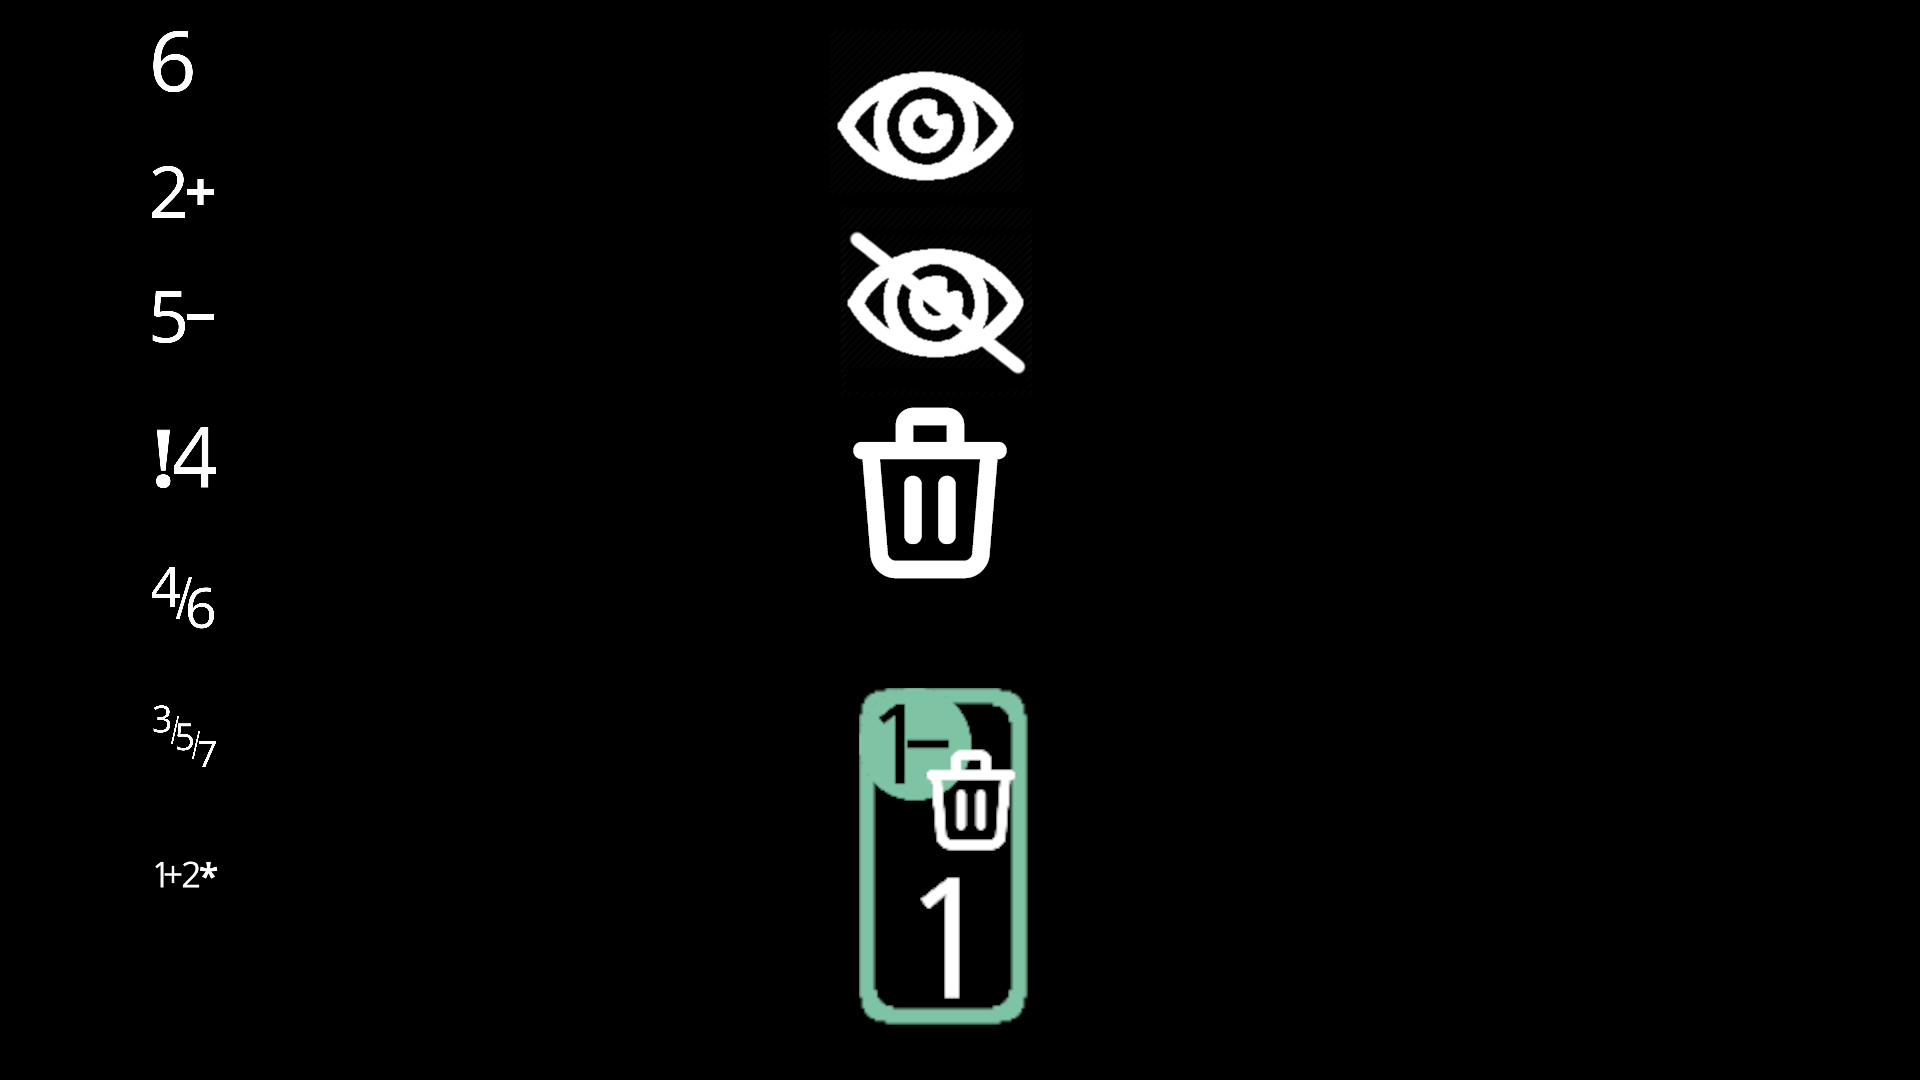
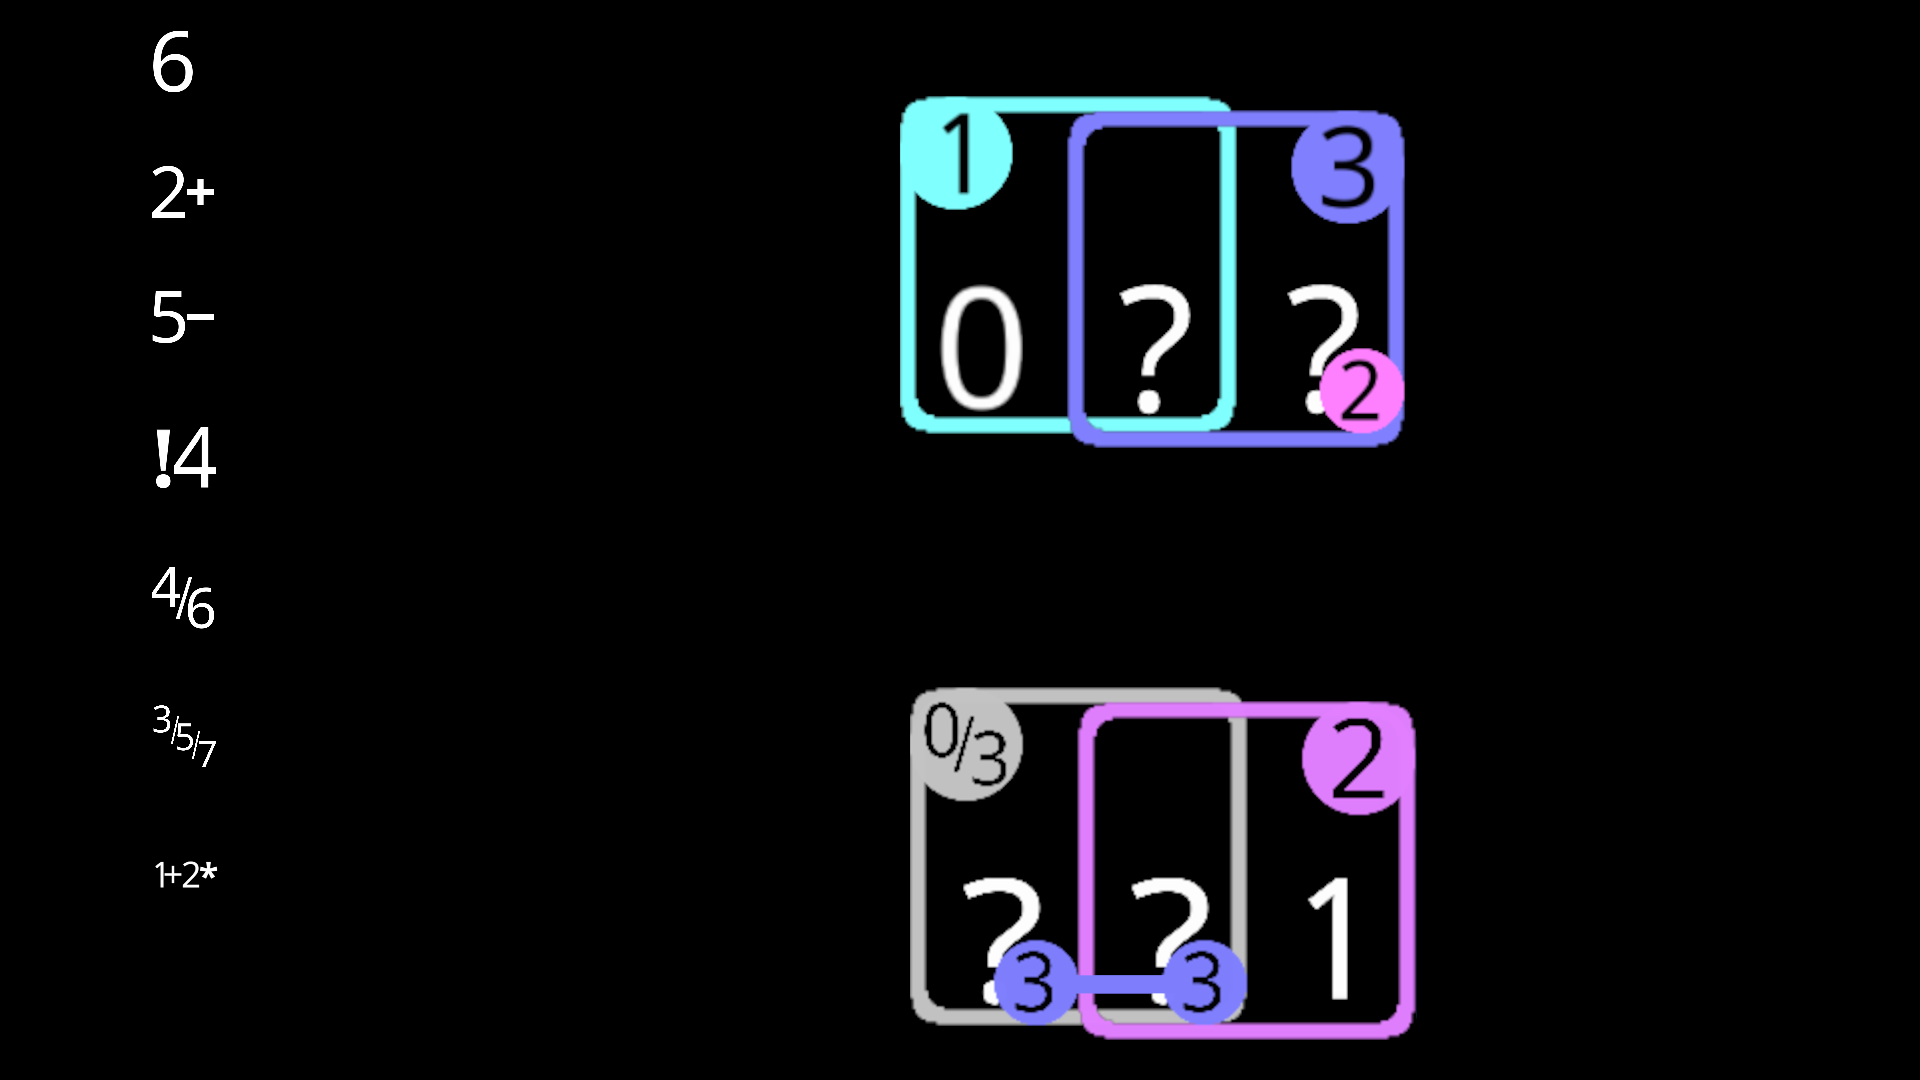
New tutorial structure

Changed region(s): [[0.4375, 0.0611, 0.75, 0.55], [0.4375, 0.6111, 0.75, 0.9778]]

diff --git a/GameState.cpp b/GameState.cpp
@@ -262,6 +262,7 @@ GameState::GameState(std::string& load_data, bool json)
     tutorial_texture[3] = loadTexture("tutorial/tut3.png");
     tutorial_texture[4] = loadTexture("tutorial/tut4.png");
     tutorial_texture[5] = loadTexture("tutorial/tut5.png");
+    tutorial_texture[6] = loadTexture("tutorial/tut6.png");
 
     {
         SDL_Surface* icon_surface = IMG_Load("icon.png");
@@ -3908,7 +3909,7 @@ void GameState::render(bool saving)
         SDL_RenderCopy(sdl_renderer, sdl_texture, &src_rect, &dst_rect);
         add_tooltip(dst_rect, "Game Mode");
     }
-    if (clipboard_has_item != CLIPBOARD_HAS_NONE)
+    if (clipboard_has_item != CLIPBOARD_HAS_NONE && max_stars > 30)
     {
         SDL_Rect src_rect = {2048, 1536, 192, 192};
         SDL_Rect dst_rect = {left_panel_offset.x + 2 * button_size, left_panel_offset.y + button_size * 3, button_size, button_size};
@@ -3954,139 +3955,142 @@ void GameState::render(bool saving)
         }
     }
 
-    if (max_stars < 36)
-        SDL_SetTextureAlphaMod(sdl_texture, 10 * std::max(max_stars - 10, 0));
-
-    for (int i = 0; i < 5; i++)
+    if (max_stars > 10)
     {
-        const static char* grid_names[] = {"Hexagon", "Square", "Triangle", "Infinite", "Server"};
-        if (render_lock(PROG_LOCK_HEX + i, XYPos(left_panel_offset.x + i * button_size, left_panel_offset.y + int(button_size * 5.5)), XYPos(button_size, button_size)))
-        {
-            if (auto_progress_all && (current_level_group_index == i))
-            {
-                SDL_Rect src_rect = {1344, 1920, 128, 128};
-                SDL_Rect dst_rect = {left_panel_offset.x + i * button_size, left_panel_offset.y + int(button_size * 5.5), button_size, button_size};
-                SDL_Point rot_center = {button_size / 2, button_size / 2};
-                double angle = frame * 0.05;
-                SDL_RenderCopyEx(sdl_renderer, sdl_texture, &src_rect, &dst_rect, angle, &rot_center, SDL_FLIP_NONE);
-            }
-            SDL_Rect src_rect = {1472, 1344 + i * 192, 192, 192};
-            SDL_Rect dst_rect = {left_panel_offset.x + i * button_size, left_panel_offset.y + int(button_size * 5.5), button_size, button_size};
-            if (i == 4)
-                src_rect = {1664, 1536, 192, 192};
-            SDL_RenderCopy(sdl_renderer, sdl_texture, &src_rect, &dst_rect);
-            add_tooltip(dst_rect, grid_names[i]);
-        }
         if (max_stars < 36)
             SDL_SetTextureAlphaMod(sdl_texture, 10 * std::max(max_stars - 10, 0));
+        for (int i = 0; i < 5; i++)
         {
-            SDL_Rect src_rect = {512, (current_level_group_index == i) ? 1152 : 1344, 192, 192};
-            SDL_Rect dst_rect = {left_panel_offset.x + i * button_size, right_panel_offset.y + int(button_size * 5.5), button_size, button_size};
-            SDL_RenderCopy(sdl_renderer, sdl_texture, &src_rect, &dst_rect);
-        }
-    }
-    if (server_level_anim < PROG_ANIM_MAX)
-    {
-        star_burst_animations.push_back(AnimationStarBurst(XYPos(left_panel_offset.x + 4 * button_size, right_panel_offset.y + button_size * 5), XYPos(button_size,button_size), server_level_anim, false));
-        server_level_anim += frame_step;
-    }
-
-
-    XYPos p = XYPos(0,0);
-    for (int i = 0; i < level_progress[game_mode][current_level_group_index].size(); i++)
-    {
-        p.x = i % 5;
-        p.y = i / 5;
-
-        XYPos pos = left_panel_offset + XYPos(button_size * (i % 5), button_size * (i / 5 + 6.5));
-        if (i == current_level_set_index)
-        {
-            render_box(pos, XYPos(button_size, button_size), button_size/4, 9);
-            if (auto_progress)
+            const static char* grid_names[] = {"Hexagon", "Square", "Triangle", "Infinite", "Weekly Levels"};
+            if (render_lock(PROG_LOCK_HEX + i, XYPos(left_panel_offset.x + i * button_size, left_panel_offset.y + int(button_size * 5.5)), XYPos(button_size, button_size)))
             {
-                SDL_Rect src_rect = {1344, 1920, 128, 128};
+                if (auto_progress_all && (current_level_group_index == i))
+                {
+                    SDL_Rect src_rect = {1344, 1920, 128, 128};
+                    SDL_Rect dst_rect = {left_panel_offset.x + i * button_size, left_panel_offset.y + int(button_size * 5.5), button_size, button_size};
+                    SDL_Point rot_center = {button_size / 2, button_size / 2};
+                    double angle = frame * 0.05;
+                    SDL_RenderCopyEx(sdl_renderer, sdl_texture, &src_rect, &dst_rect, angle, &rot_center, SDL_FLIP_NONE);
+                }
+                SDL_Rect src_rect = {1472, 1344 + i * 192, 192, 192};
+                SDL_Rect dst_rect = {left_panel_offset.x + i * button_size, left_panel_offset.y + int(button_size * 5.5), button_size, button_size};
+                if (i == 4)
+                    src_rect = {1664, 1536, 192, 192};
+                SDL_RenderCopy(sdl_renderer, sdl_texture, &src_rect, &dst_rect);
+                if (max_stars > 26)
+                    add_tooltip(dst_rect, grid_names[i]);
+            }
+            if (max_stars < 36)
+                SDL_SetTextureAlphaMod(sdl_texture, 10 * std::max(max_stars - 10, 0));
+            {
+                SDL_Rect src_rect = {512, (current_level_group_index == i) ? 1152 : 1344, 192, 192};
+                SDL_Rect dst_rect = {left_panel_offset.x + i * button_size, right_panel_offset.y + int(button_size * 5.5), button_size, button_size};
+                SDL_RenderCopy(sdl_renderer, sdl_texture, &src_rect, &dst_rect);
+            }
+        }
+        if (server_level_anim < PROG_ANIM_MAX)
+        {
+            star_burst_animations.push_back(AnimationStarBurst(XYPos(left_panel_offset.x + 4 * button_size, right_panel_offset.y + int(button_size * 5.5)), XYPos(button_size,button_size), server_level_anim, false));
+            server_level_anim += frame_step;
+        }
+
+
+        XYPos p = XYPos(0,0);
+        for (int i = 0; i < level_progress[game_mode][current_level_group_index].size(); i++)
+        {
+            p.x = i % 5;
+            p.y = i / 5;
+
+            XYPos pos = left_panel_offset + XYPos(button_size * (i % 5), button_size * (i / 5 + 6.5));
+            if (i == current_level_set_index)
+            {
+                render_box(pos, XYPos(button_size, button_size), button_size/4, 9);
+                if (auto_progress)
+                {
+                    SDL_Rect src_rect = {1344, 1920, 128, 128};
+                    SDL_Rect dst_rect = {pos.x, pos.y, button_size, button_size};
+                    SDL_Point rot_center = {button_size / 2, button_size / 2};
+                    double angle = frame * 0.05;
+                    SDL_RenderCopyEx(sdl_renderer, sdl_texture, &src_rect, &dst_rect, angle, &rot_center, SDL_FLIP_NONE);
+                }
+            }
+            int cnt = (current_level_group_index == GLBAL_LEVEL_SETS) ?
+                            server_levels[i].size() :
+                            global_level_sets[current_level_group_index][i]->levels.size();
+
+            if (!cnt || (IS_DEMO && (i % 5 + i / 5) > 3))
+            {
+                SDL_Rect src_rect = {1088, 192, 192, 192};
                 SDL_Rect dst_rect = {pos.x, pos.y, button_size, button_size};
-                SDL_Point rot_center = {button_size / 2, button_size / 2};
-                double angle = frame * 0.05;
-                SDL_RenderCopyEx(sdl_renderer, sdl_texture, &src_rect, &dst_rect, angle, &rot_center, SDL_FLIP_NONE);
+                SDL_RenderCopy(sdl_renderer, sdl_texture, &src_rect, &dst_rect);
+                continue;
             }
-        }
-        int cnt = (current_level_group_index == GLBAL_LEVEL_SETS) ?
-                        server_levels[i].size() :
-                        global_level_sets[current_level_group_index][i]->levels.size();
 
-        if (!cnt || (IS_DEMO && (i % 5 + i / 5) > 3))
-        {
-            SDL_Rect src_rect = {1088, 192, 192, 192};
-            SDL_Rect dst_rect = {pos.x, pos.y, button_size, button_size};
-            SDL_RenderCopy(sdl_renderer, sdl_texture, &src_rect, &dst_rect);
-            continue;
-        }
-
-        int need = 100;
-        if (i >= 5)
-            need = std::min(need, int(level_progress[game_mode][current_level_group_index][i - 5].count_todo) - 100);
-        if (i % 5 >= 1)
-            need = std::min(need, int(level_progress[game_mode][current_level_group_index][i - 1].count_todo) - 100);
-        if (i && need > 0)
-        {
-            SDL_Rect src_rect = {1088, 192, 192, 192};
-            SDL_Rect dst_rect = {pos.x , pos.y, button_size, button_size};
-            SDL_RenderCopy(sdl_renderer, sdl_texture, &src_rect, &dst_rect);
-
-            SDL_SetTextureColorMod(sdl_texture, 0,0,0);
-            render_number(need, pos + XYPos(button_size * 45 / 192 , button_size * 77 / 192), XYPos(button_size * 102 / 192, button_size * 98 / 192));
-            SDL_SetTextureColorMod(sdl_texture, contrast, contrast, contrast);
-            continue;
-        }
-        else
-        {
-            if (level_progress[game_mode][current_level_group_index][i].unlock_anim_prog < PROG_ANIM_MAX)
+            int need = 100;
+            if (i >= 5)
+                need = std::min(need, int(level_progress[game_mode][current_level_group_index][i - 5].count_todo) - 100);
+            if (i % 5 >= 1)
+                need = std::min(need, int(level_progress[game_mode][current_level_group_index][i - 1].count_todo) - 100);
+            if (i && need > 0)
             {
-                star_burst_animations.push_back(AnimationStarBurst(pos, XYPos(button_size,button_size), level_progress[game_mode][current_level_group_index][i].unlock_anim_prog, true));
-                level_progress[game_mode][current_level_group_index][i].unlock_anim_prog += frame_step;
-            }
-            
-        }
+                SDL_Rect src_rect = {1088, 192, 192, 192};
+                SDL_Rect dst_rect = {pos.x , pos.y, button_size, button_size};
+                SDL_RenderCopy(sdl_renderer, sdl_texture, &src_rect, &dst_rect);
 
-        int c = level_progress[game_mode][current_level_group_index][i].count_todo;
-        if (c)
-        {
-            render_number(level_progress[game_mode][current_level_group_index][i].count_todo, pos + XYPos(button_size / 32, button_size / 4), XYPos(button_size * 15 / 16 , button_size / 2));
-            SDL_Rect dst_rect = {pos.x, pos.y, button_size, button_size};
-            add_clickable_highlight(dst_rect);
-        }
-        else
-        {
-            if (level_progress[game_mode][current_level_group_index][i].star_anim_prog < PROG_ANIM_MAX)
-            {
-                star_burst_animations.push_back(AnimationStarBurst(pos, XYPos(button_size,button_size), level_progress[game_mode][current_level_group_index][i].star_anim_prog, false));
-                level_progress[game_mode][current_level_group_index][i].star_anim_prog += frame_step;
+                SDL_SetTextureColorMod(sdl_texture, 0,0,0);
+                render_number(need, pos + XYPos(button_size * 45 / 192 , button_size * 77 / 192), XYPos(button_size * 102 / 192, button_size * 98 / 192));
+                SDL_SetTextureColorMod(sdl_texture, contrast, contrast, contrast);
+                continue;
             }
-            SDL_Rect src_rect = {512, 960, 192, 192};
-            SDL_Rect dst_rect = {pos.x, pos.y, button_size, button_size};
-            SDL_RenderCopy(sdl_renderer, sdl_texture, &src_rect, &dst_rect);
+            else
+            {
+                if (level_progress[game_mode][current_level_group_index][i].unlock_anim_prog < PROG_ANIM_MAX)
+                {
+                    star_burst_animations.push_back(AnimationStarBurst(pos, XYPos(button_size,button_size), level_progress[game_mode][current_level_group_index][i].unlock_anim_prog, true));
+                    level_progress[game_mode][current_level_group_index][i].unlock_anim_prog += frame_step;
+                }
+                
+            }
+
+            int c = level_progress[game_mode][current_level_group_index][i].count_todo;
+            if (c)
+            {
+                render_number(level_progress[game_mode][current_level_group_index][i].count_todo, pos + XYPos(button_size / 32, button_size / 4), XYPos(button_size * 15 / 16 , button_size / 2));
+                SDL_Rect dst_rect = {pos.x, pos.y, button_size, button_size};
+                add_clickable_highlight(dst_rect);
+            }
+            else
+            {
+                if (level_progress[game_mode][current_level_group_index][i].star_anim_prog < PROG_ANIM_MAX)
+                {
+                    star_burst_animations.push_back(AnimationStarBurst(pos, XYPos(button_size,button_size), level_progress[game_mode][current_level_group_index][i].star_anim_prog, false));
+                    level_progress[game_mode][current_level_group_index][i].star_anim_prog += frame_step;
+                }
+                SDL_Rect src_rect = {512, 960, 192, 192};
+                SDL_Rect dst_rect = {pos.x, pos.y, button_size, button_size};
+                SDL_RenderCopy(sdl_renderer, sdl_texture, &src_rect, &dst_rect);
+            }
         }
+        {
+            {
+                SDL_Rect src_rect = {512, 1183, 96, 1};
+                SDL_Rect dst_rect = {left_panel_offset.x, right_panel_offset.y + int(button_size * 6.5), button_size / 2, button_size * 6};
+                SDL_RenderCopy(sdl_renderer, sdl_texture, &src_rect, &dst_rect);
+            }
+            {
+                SDL_Rect src_rect = {512 + 96, 1183, 96, 1};
+                SDL_Rect dst_rect = {left_panel_offset.x + button_size * 5 - button_size / 2, right_panel_offset.y + int(button_size * 6.5), button_size / 2, button_size * 6};
+                SDL_RenderCopy(sdl_renderer, sdl_texture, &src_rect, &dst_rect);
+            }
+            {
+                SDL_Rect src_rect = {520, 1504, 1, 32};
+                SDL_Rect dst_rect = {left_panel_offset.x, right_panel_offset.y + int(button_size * 12.5) - button_size / 6, button_size * 5, button_size / 6};
+                SDL_RenderCopy(sdl_renderer, sdl_texture, &src_rect, &dst_rect);
+            }
+        }
+        if (max_stars < 36)
+            SDL_SetTextureAlphaMod(sdl_texture, 255);
     }
-    {
-        {
-            SDL_Rect src_rect = {512, 1183, 96, 1};
-            SDL_Rect dst_rect = {left_panel_offset.x, right_panel_offset.y + int(button_size * 6.5), button_size / 2, button_size * 6};
-            SDL_RenderCopy(sdl_renderer, sdl_texture, &src_rect, &dst_rect);
-        }
-        {
-            SDL_Rect src_rect = {512 + 96, 1183, 96, 1};
-            SDL_Rect dst_rect = {left_panel_offset.x + button_size * 5 - button_size / 2, right_panel_offset.y + int(button_size * 6.5), button_size / 2, button_size * 6};
-            SDL_RenderCopy(sdl_renderer, sdl_texture, &src_rect, &dst_rect);
-        }
-        {
-            SDL_Rect src_rect = {520, 1504, 1, 32};
-            SDL_Rect dst_rect = {left_panel_offset.x, right_panel_offset.y + int(button_size * 12.5) - button_size / 6, button_size * 5, button_size / 6};
-            SDL_RenderCopy(sdl_renderer, sdl_texture, &src_rect, &dst_rect);
-        }
-    }
-    if (max_stars < 36)
-        SDL_SetTextureAlphaMod(sdl_texture, 255);
 
     if (right_panel_mode == RIGHT_MENU_RULE_GEN)
     {
@@ -4347,7 +4351,7 @@ void GameState::render(bool saving)
             add_tooltip(dst_rect, "Go to Rule Constructor");
         }
     }
-    if ((right_panel_mode == RIGHT_MENU_NONE) || (right_panel_mode == RIGHT_MENU_REGION))
+    if (((right_panel_mode == RIGHT_MENU_NONE) || (right_panel_mode == RIGHT_MENU_REGION)) &&  max_stars > 30)
     {
         SDL_Rect src_rect = {1856, 1536, 192, 192};
         SDL_Rect dst_rect = { right_panel_offset.x + button_size * 3, right_panel_offset.y + button_size * 6, button_size, button_size};
@@ -4389,13 +4393,13 @@ void GameState::render(bool saving)
                 {
                     if (hover_rulemaker_lower_right && right_panel_mode == RIGHT_MENU_RULE_GEN)
                         SDL_SetTextureColorMod(sdl_texture, contrast / 2, contrast / 2, contrast / 2);
-                    render_box(right_panel_offset + p * button_size, XYPos(button_size, button_size), button_size / 4);
+                    render_box(right_panel_offset + p * button_size, XYPos(button_size, button_size), button_size / 4, 9);
                     SDL_SetTextureColorMod(sdl_texture, contrast, contrast, contrast);
                     if (right_panel_mode == RIGHT_MENU_RULE_GEN)
                     {
                         if (!hover_rulemaker_lower_right)
                             SDL_SetTextureColorMod(sdl_texture, contrast / 2, contrast / 2, contrast / 2);
-                        render_box(right_panel_offset + p * button_size + XYPos(button_size / 2, button_size / 2), XYPos(button_size / 2, button_size / 2), button_size / 4);
+                        render_box(right_panel_offset + p * button_size + XYPos(button_size / 2, button_size / 2), XYPos(button_size / 2, button_size / 2), button_size / 4, 9);
                         SDL_SetTextureColorMod(sdl_texture, contrast, contrast, contrast);
                     }
                 }
@@ -4605,13 +4609,14 @@ void GameState::render(bool saving)
                 SDL_RenderCopy(sdl_renderer, sdl_texture, &src_rect, &dst_rect);
                 add_tooltip(dst_rect, "Duplicate Rule");
             }
+            if (max_stars > 30)
             {
                 SDL_Rect src_rect = {1856, 1536, 192, 192};
                 SDL_Rect dst_rect = { right_panel_offset.x + button_size * 3, right_panel_offset.y + button_size * 6, button_size, button_size};
                 SDL_RenderCopy(sdl_renderer, sdl_texture, &src_rect, &dst_rect);
                 add_tooltip(dst_rect, "Copy Rule to Clipboard");
             }
-            if(selected_rules.empty())
+            if (max_stars > 30 && selected_rules.empty())
             {
                 SDL_Rect src_rect = {2048, 1728, 192, 192};
                 SDL_Rect dst_rect = { right_panel_offset.x + button_size * 4, right_panel_offset.y + button_size * 6, button_size, button_size};

diff --git a/GameState.h b/GameState.h
@@ -41,7 +41,7 @@ public:
     int frame_step = 0;
     bool pirate = false;
 
-    static const int tut_texture_count = 6;
+    static const int tut_texture_count = 7;
     SDL_Texture* tutorial_texture[tut_texture_count] = {};
     int tut_page_count = 3;
     SDL_Texture* overlay_texture;
